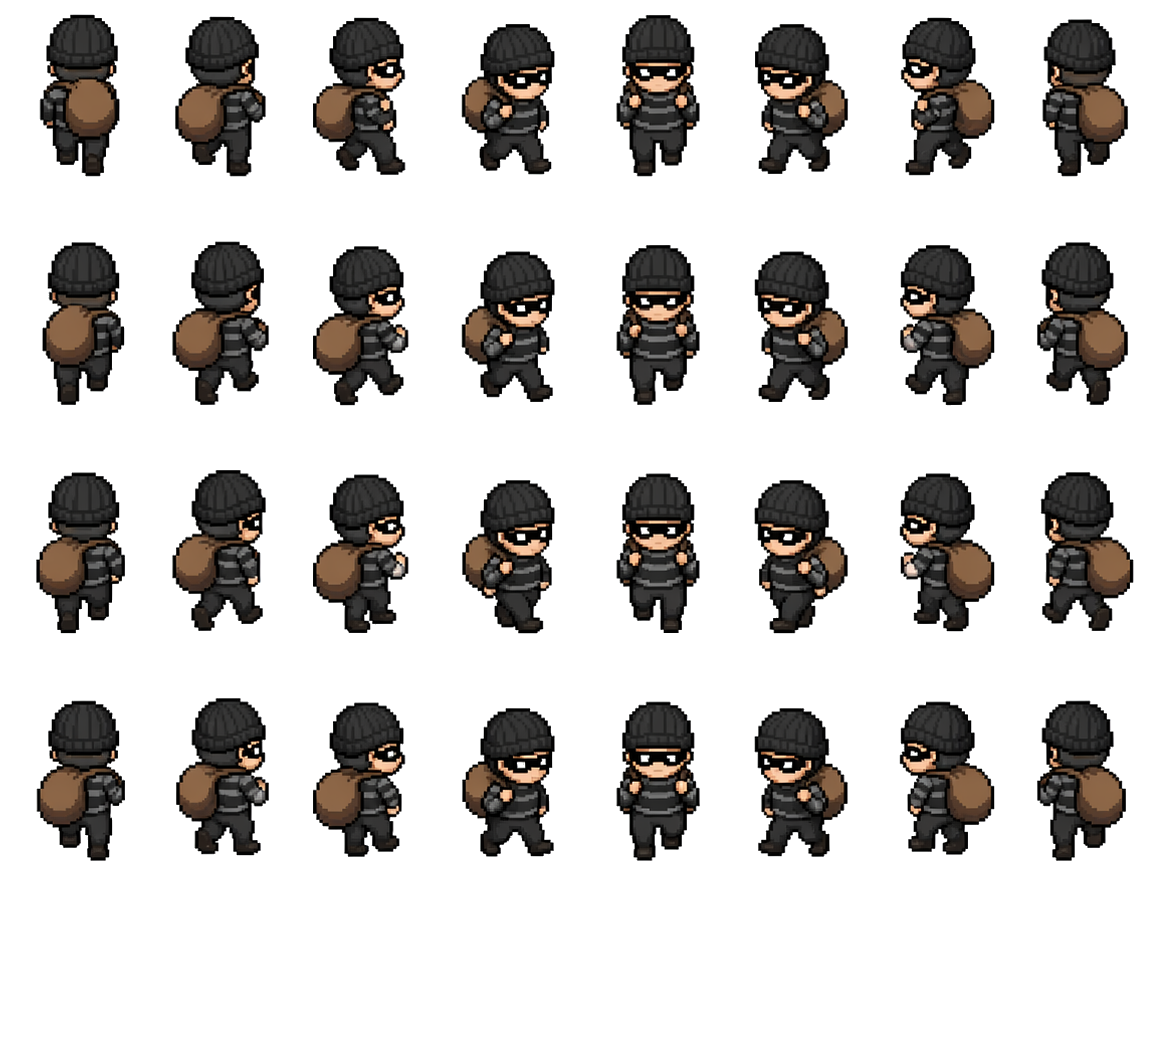
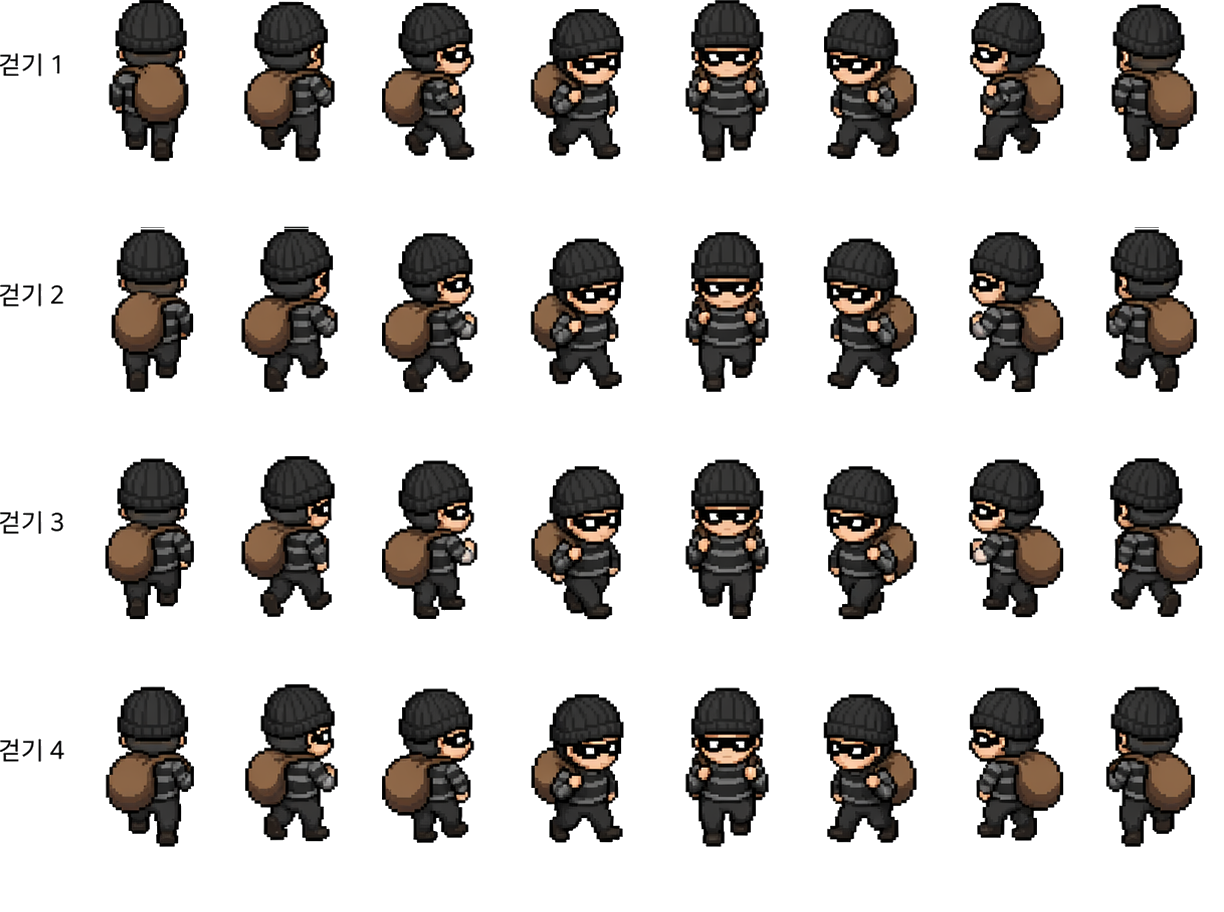
fix: 스프라이트 행 경계 감지 수정 — 머리 잘림 버그 해결
- detectActualBoundaries에서 상단 빈 영역+레이블 gap 2개를 건너뛰어
  실제 스프라이트 행 시작점을 정확히 감지
- cop rowStarts: [224, 455, 687, 914] (이전: 211 기준 261px 고정)
- thief rowStarts: [226, 452, 681, 909]
- cop.png: 1232x920px (cell 154x230), thief.png: 1224x912px (cell 153x228)
- charSprites.ts: CELL_W/CELL_H를 텍스처 크기에서 동적 계산으로 변경

diff --git a/src/games/cops-and-robbers/engine/charSprites.ts b/src/games/cops-and-robbers/engine/charSprites.ts
@@ -1,7 +1,5 @@
 import { Assets, AnimatedSprite, Texture, Rectangle } from 'pixi.js'
 
-const CELL_W = 144
-const CELL_H = 261
 const DIR_COUNT = 8
 const FRAME_COUNT = 4
 
@@ -26,26 +24,27 @@ export function dirToCol(dx: number, dy: number): number {
 
 export async function loadCharFrames(role: 'thief' | 'cop'): Promise<CharFrames> {
   const tex = await Assets.load<Texture>(`${import.meta.env.BASE_URL}assets/cops-and-robbers/${role}.png`)
+  const cellW = Math.round(tex.width / DIR_COUNT)
+  const cellH = Math.round(tex.height / FRAME_COUNT)
   const frames: CharFrames = []
   for (let col = 0; col < DIR_COUNT; col++) {
     frames[col] = []
     for (let row = 0; row < FRAME_COUNT; row++) {
       frames[col][row] = new Texture({
         source: tex.source,
-        frame: new Rectangle(col * CELL_W, row * CELL_H, CELL_W, CELL_H),
+        frame: new Rectangle(col * cellW, row * cellH, cellW, cellH),
       })
     }
   }
   return frames
 }
 
-// PLAYER_RADIUS=12 기준 sprite 높이 ≈ 2.5×radius
-const SPRITE_SCALE = (12 * 2.5) / CELL_H
-
 export function createCharSprite(frames: CharFrames, col = 4): AnimatedSprite {
   const sprite = new AnimatedSprite(frames[col])
   sprite.anchor.set(0.5, 0.8)
-  sprite.scale.set(SPRITE_SCALE)
+  // PLAYER_RADIUS=12 기준 sprite 높이 ≈ 2.5×radius
+  const cellH = frames[col][0]?.height ?? 230
+  sprite.scale.set((12 * 2.5) / cellH)
   sprite.animationSpeed = 0.15
   sprite.play()
   return sprite
